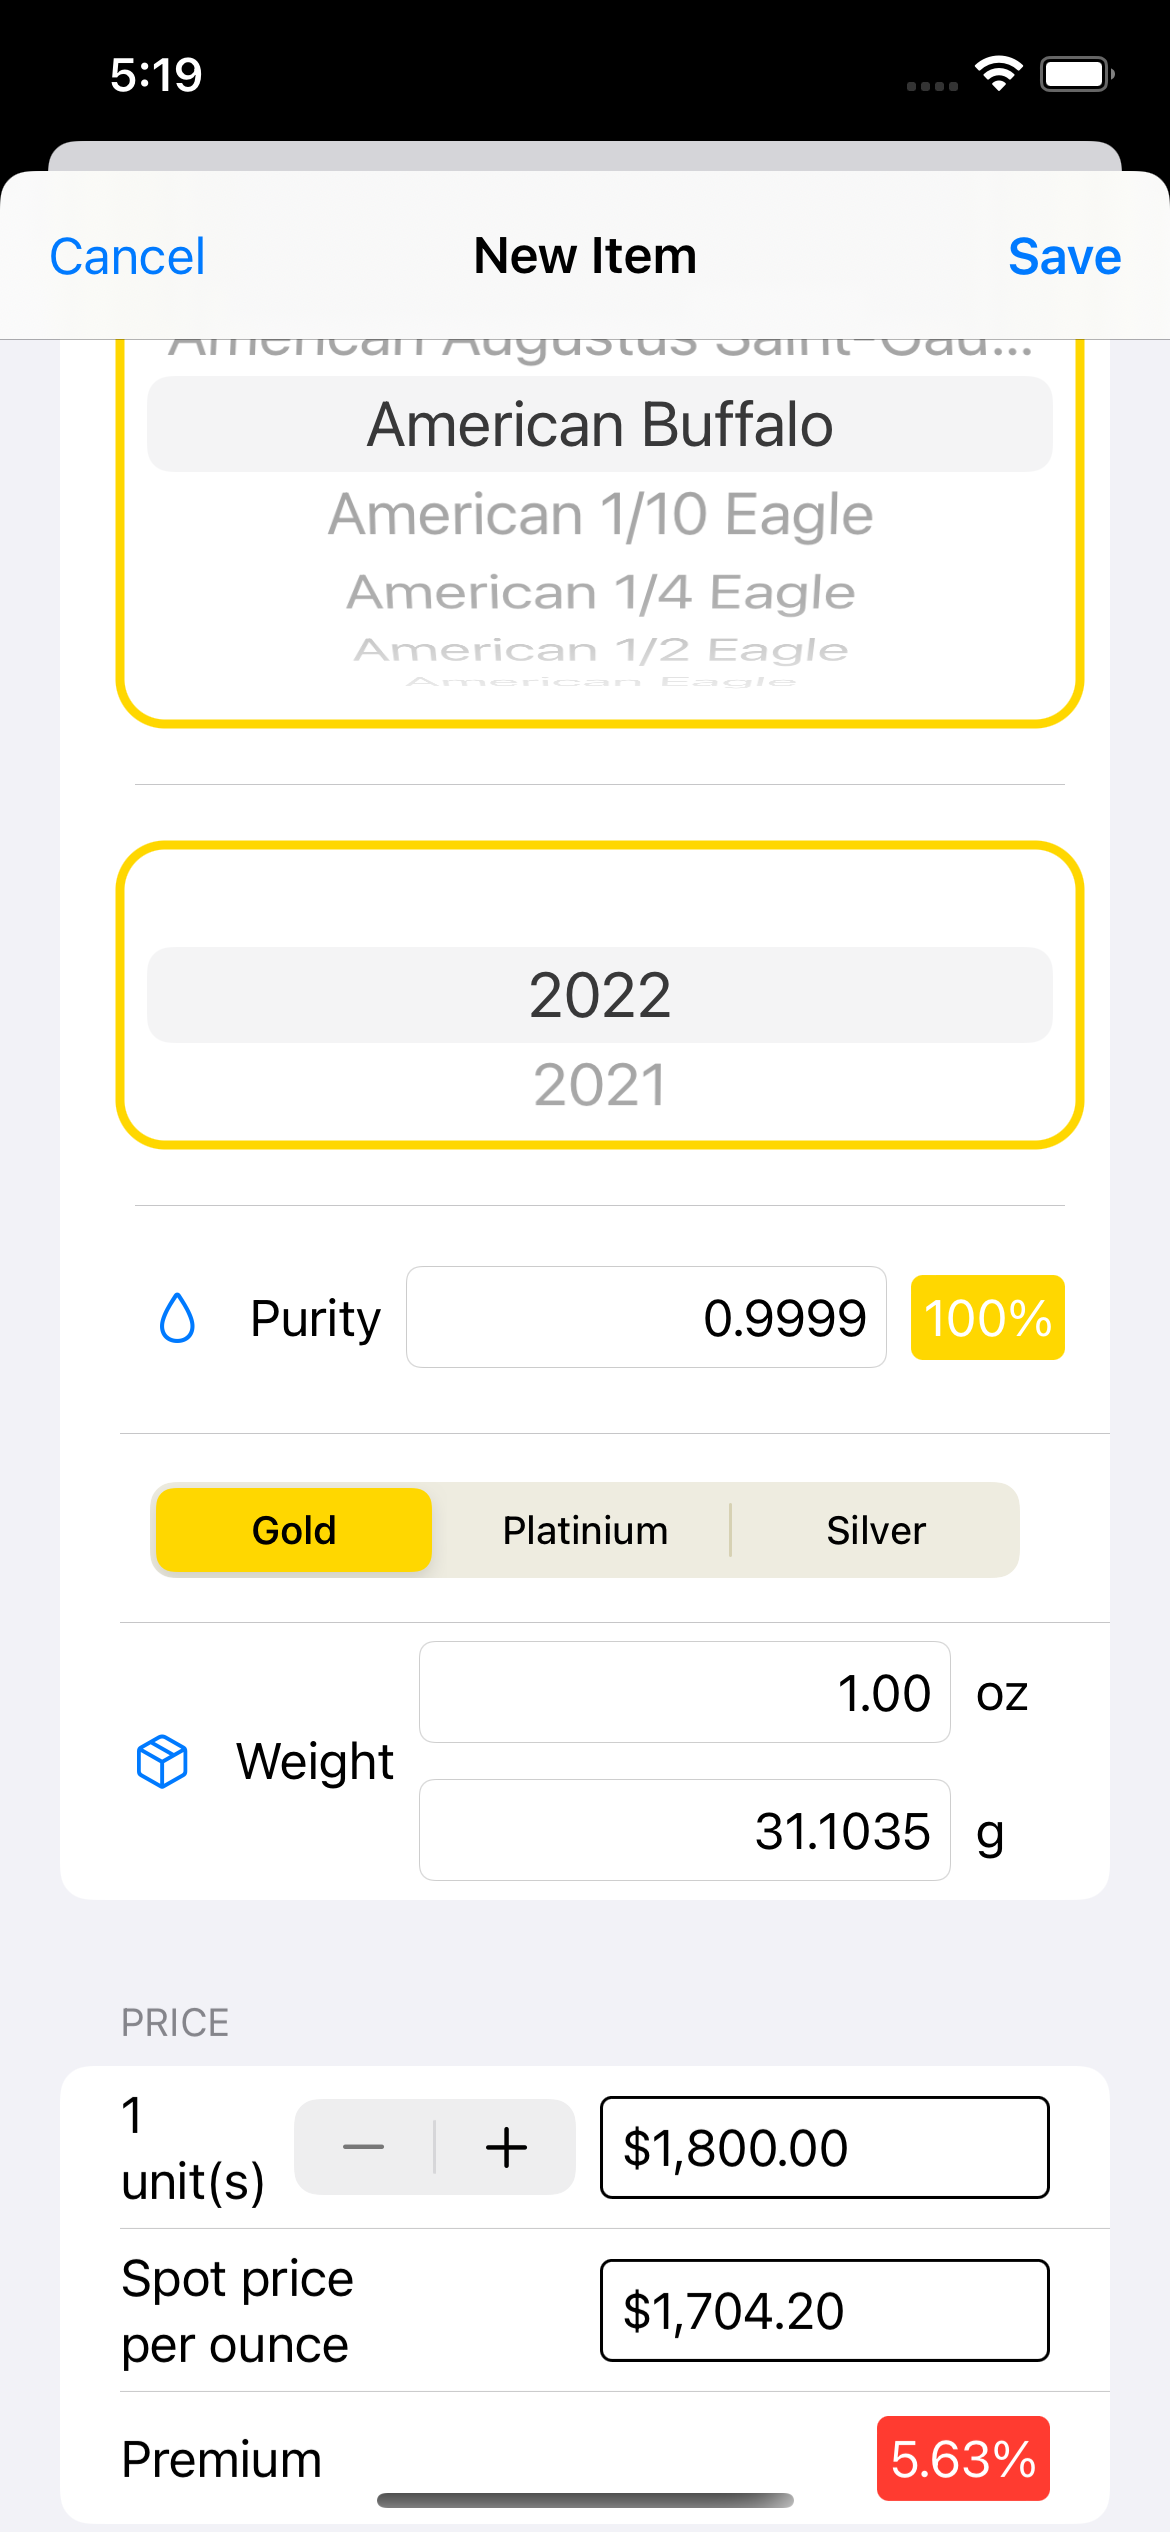
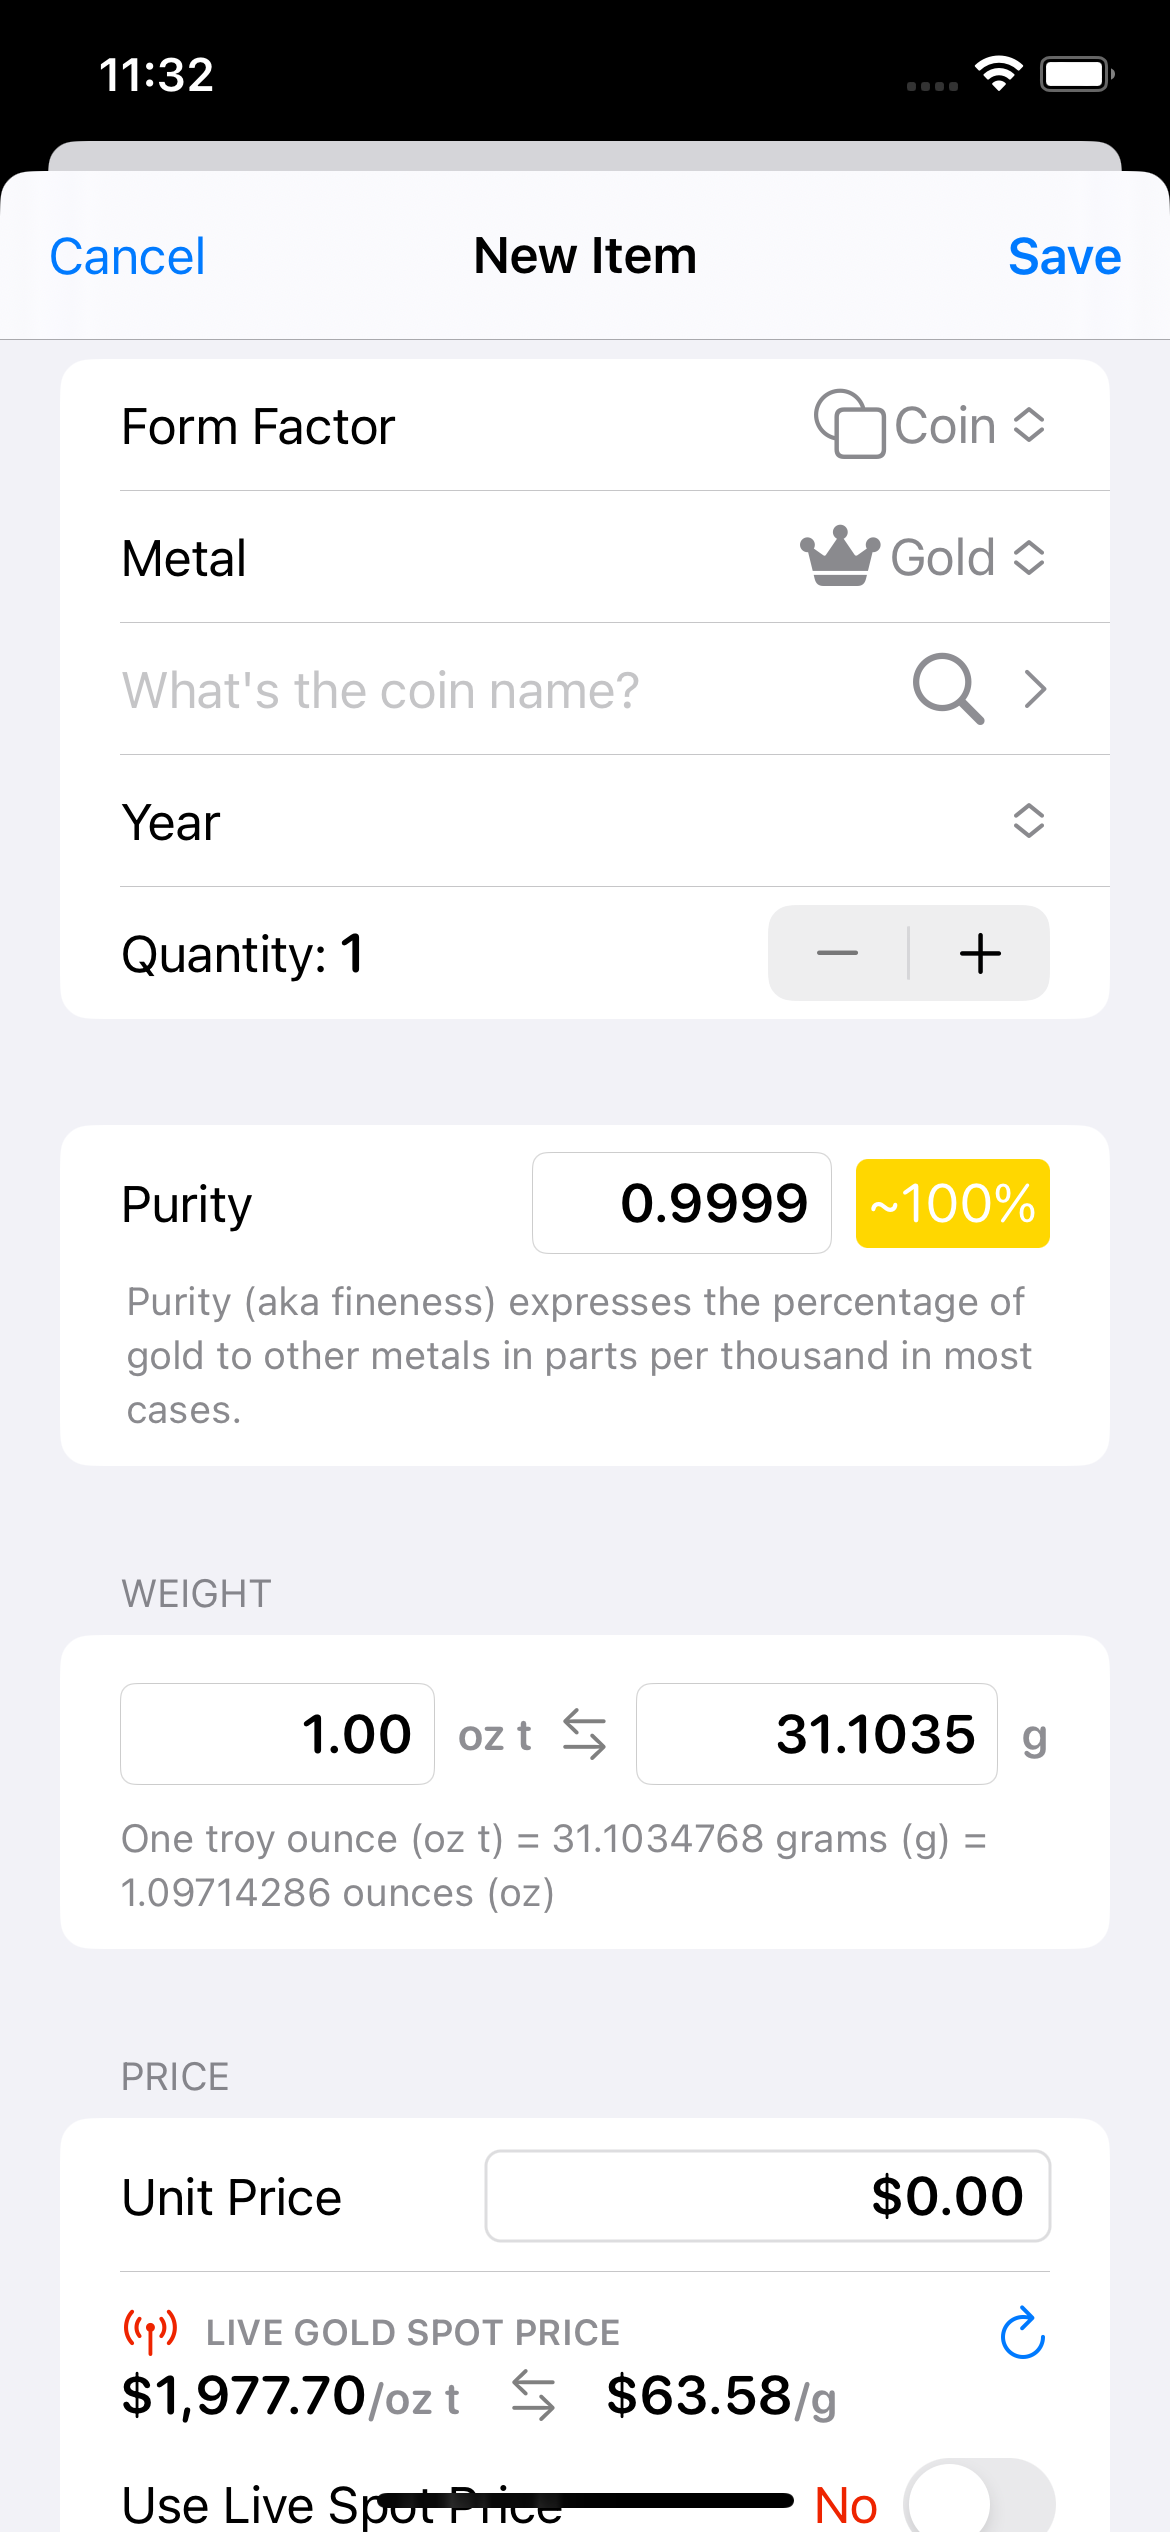
Add changelog versions and home page updates

diff --git a/_pages/changelog.md b/_pages/changelog.md
@@ -20,7 +20,41 @@ include_in_header: true
 
 <br> -->
 
-# **Version 1.5.8**
+# **Version 1.6.1**
+- Order details view redesign ✨
+- 🚀 Performance improvements.
+
+
+#### What's New
+- 🚀 Performance improvements.
+- 📺 UI Improvements
+
+#### Bug Fixes
+- 🩹 Minor bug fix.
+
+<br>
+
+### **Version 1.6.0**
+
+#### What's New
+- Create item view redesign ✨
+- 🚀 Performance improvements.
+- 📺 UI Improvements
+
+<br>
+
+### **Version 1.5.9**
+
+#### What's New
+- 🚀 Performance improvements.
+- 📺 UI Improvements
+
+#### Bug Fixes
+- 🩹 Minor bug fix.
+
+<br>
+
+### **Version 1.5.8**
 
 #### What's New
 - Enable sorting on orders
